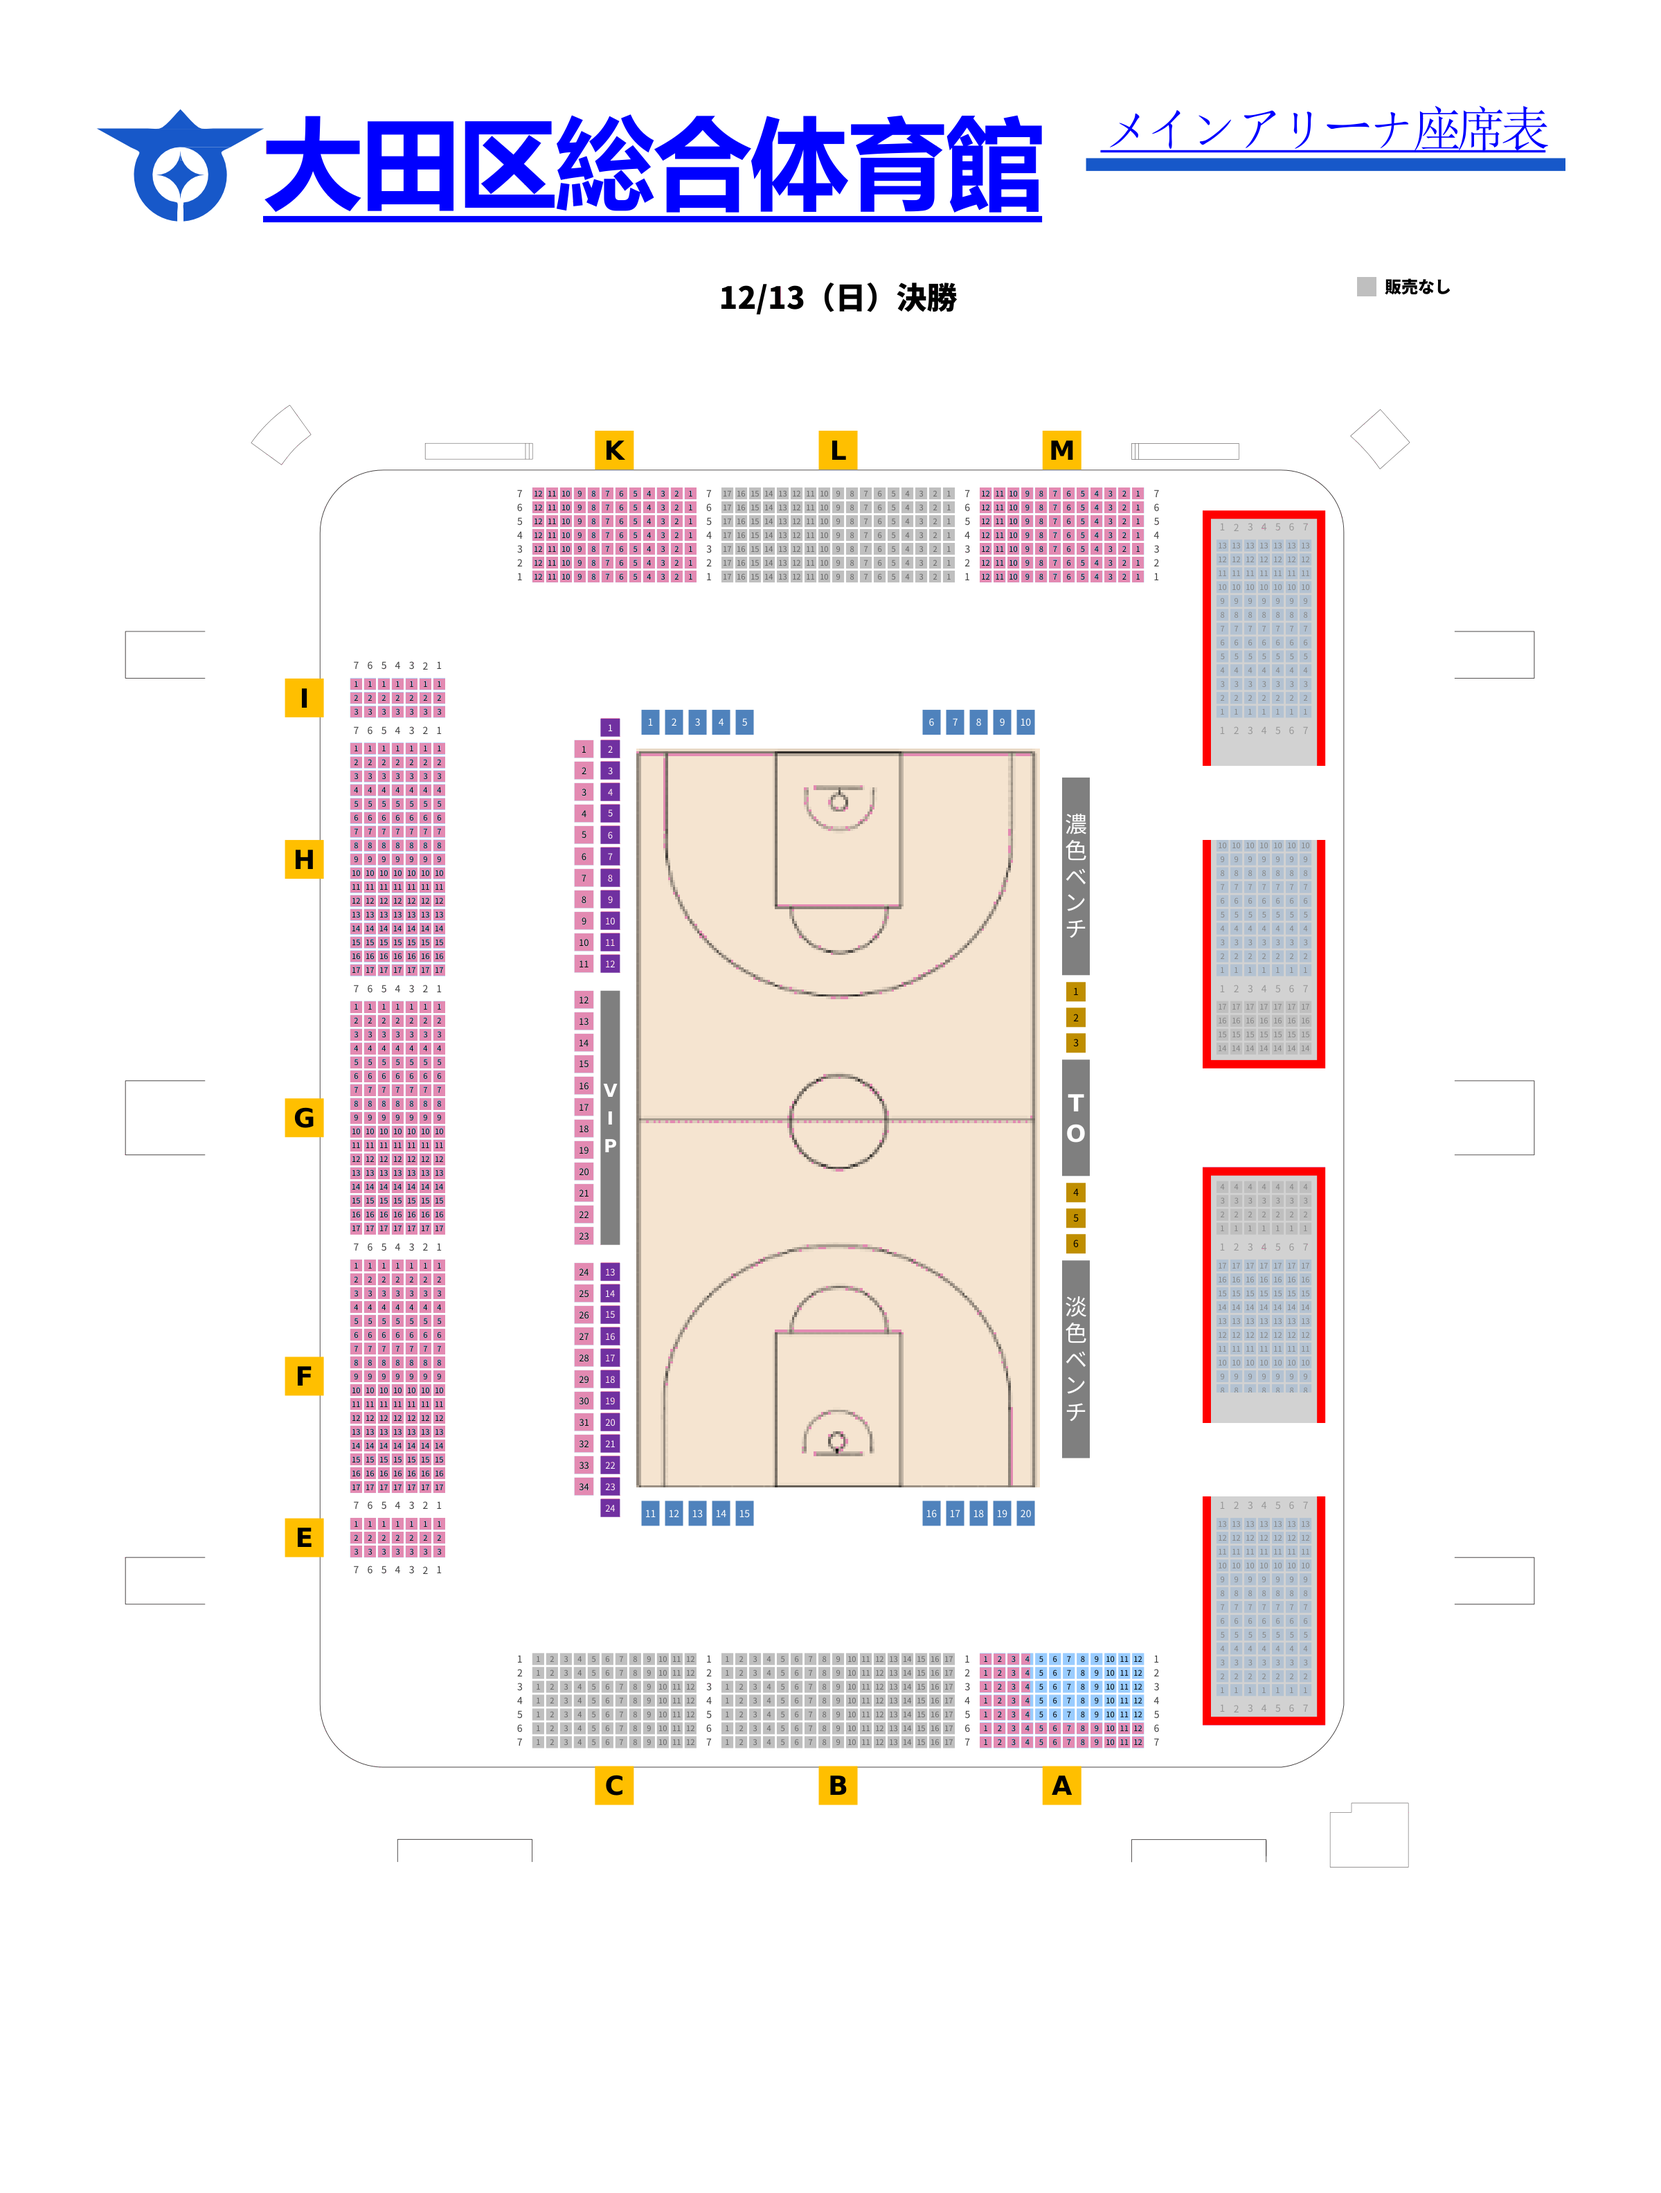
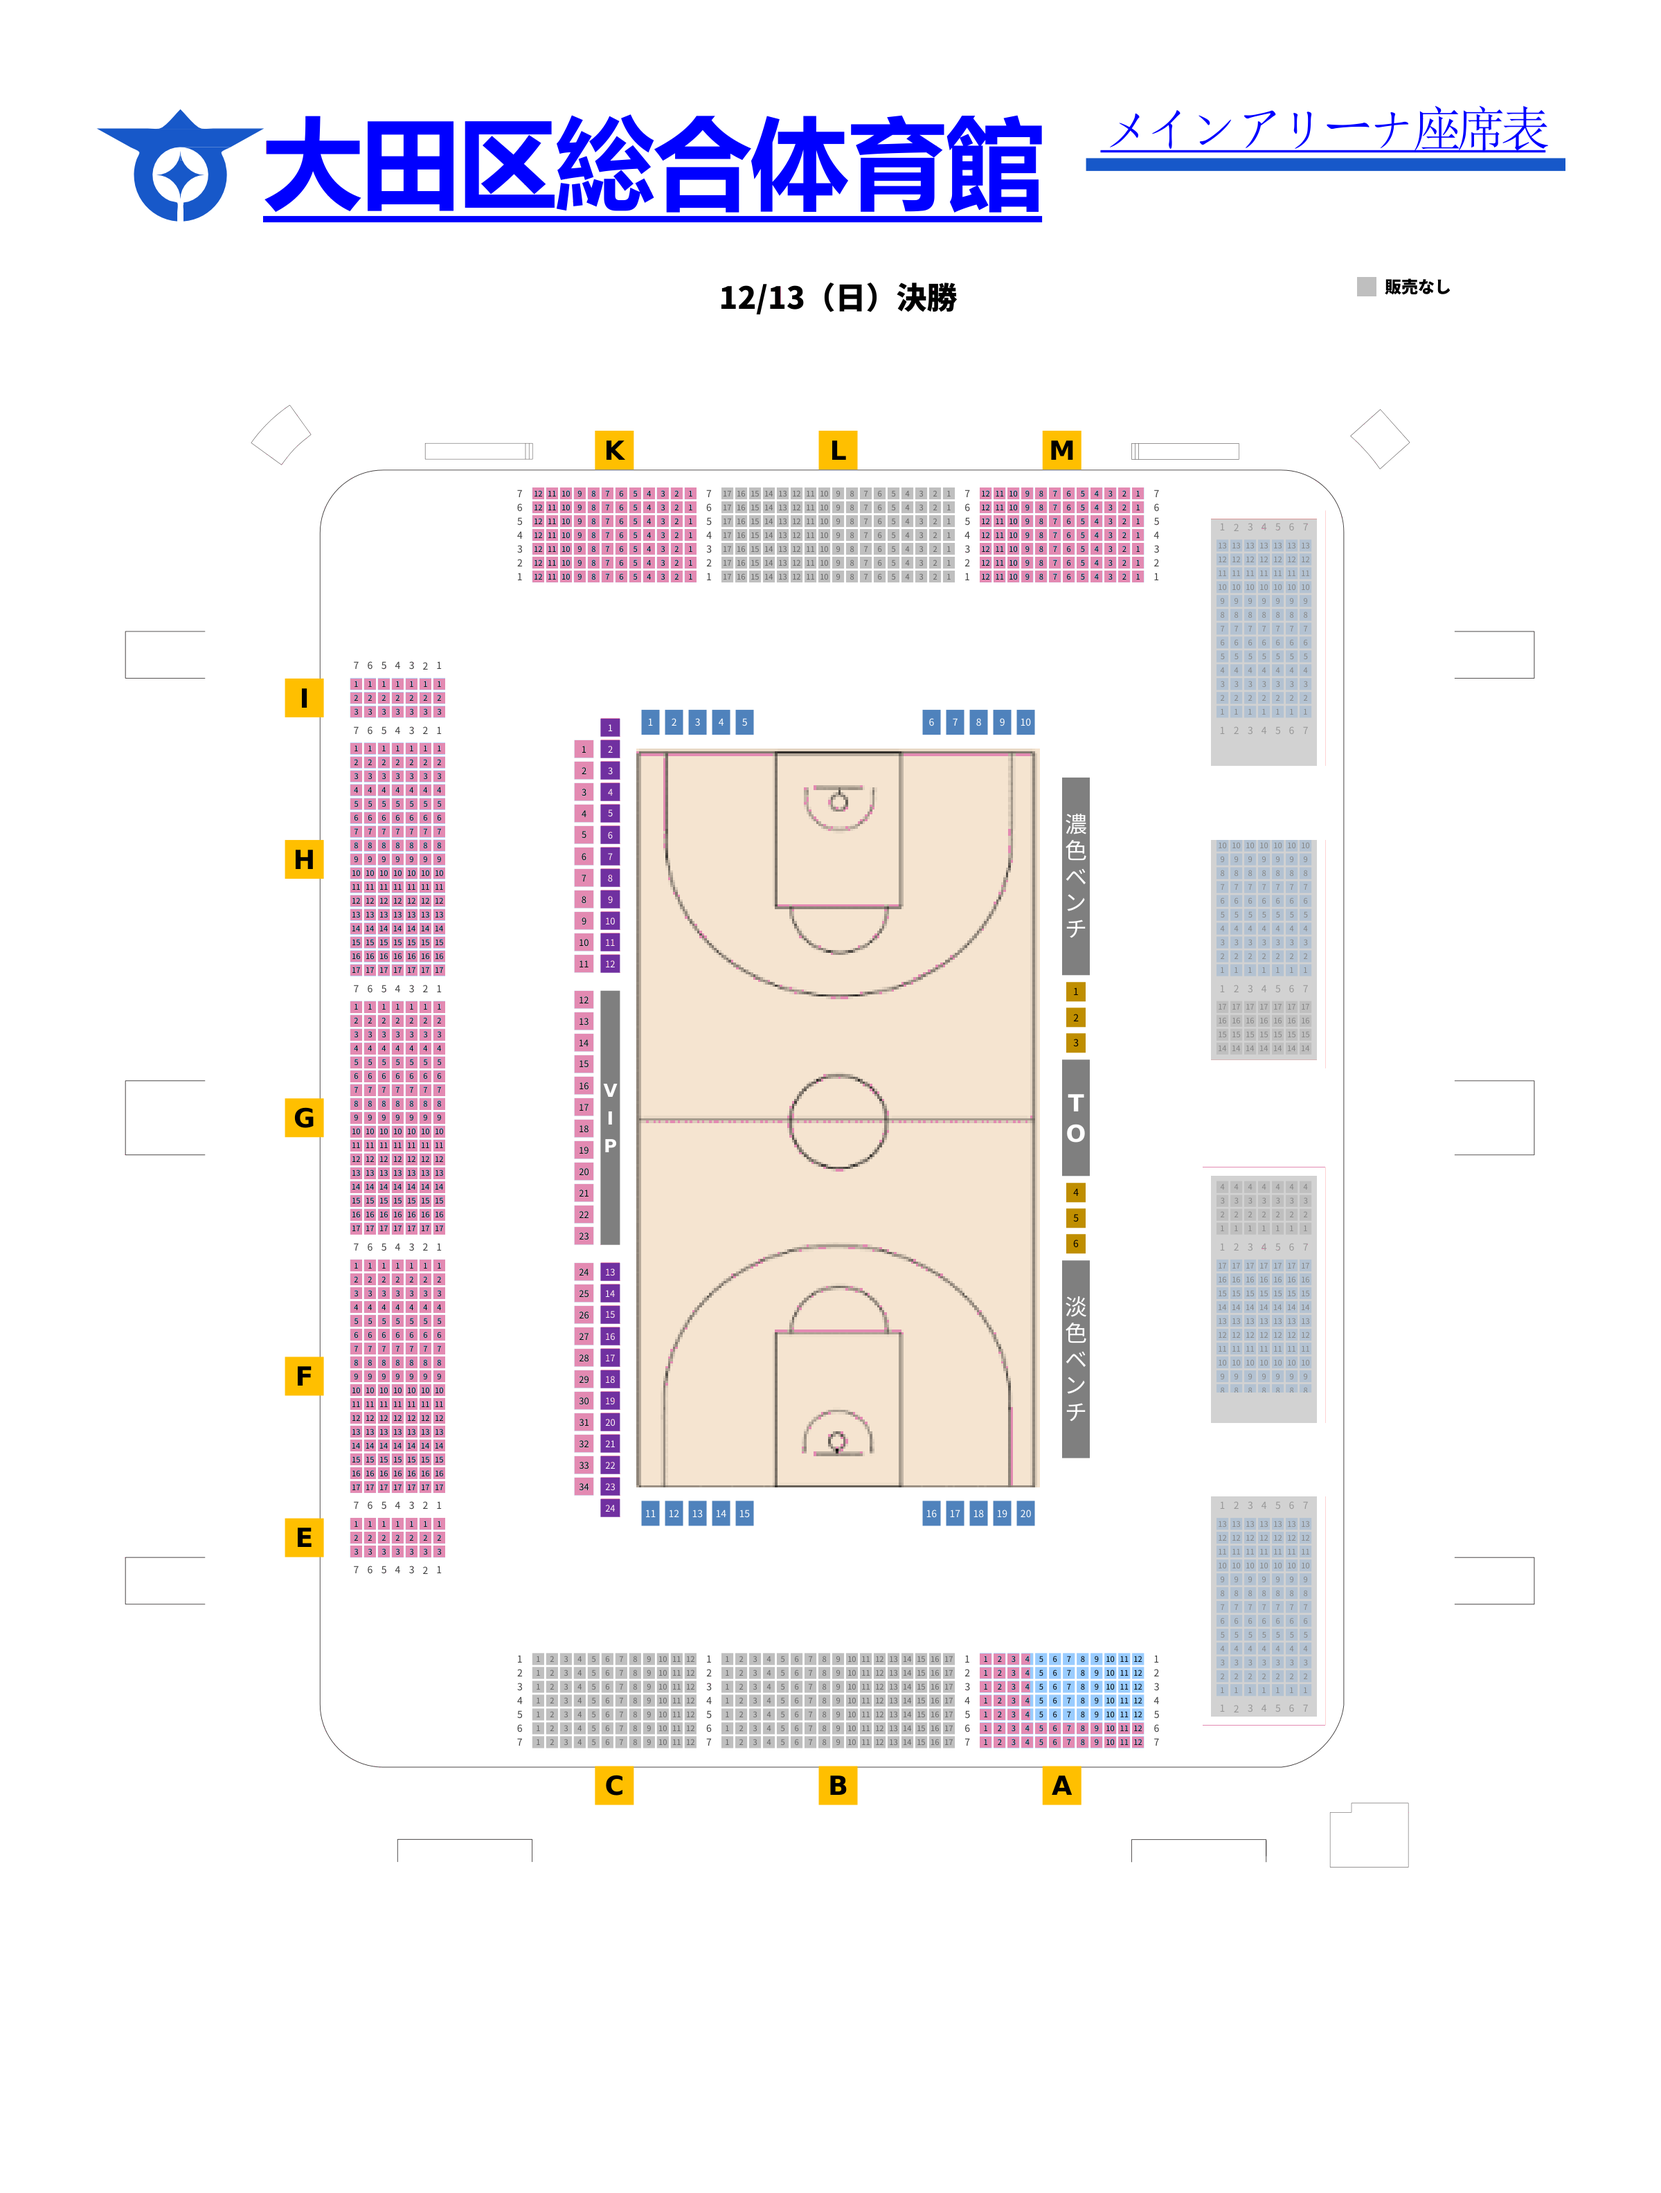
非販売エリアを席ブロック単位の点線枠で表示

diff --git a/src/components/SeatMap.tsx b/src/components/SeatMap.tsx
@@ -1,5 +1,13 @@
-import { useCallback, useEffect, useRef, useState } from 'react'
+import { useCallback, useEffect, useMemo, useRef, useState } from 'react'
 import { INCARE_LABELS } from '../lib/incarePalette'
+import {
+  mergeOptionsForOverlay,
+  mergeSeatRectsByZone,
+  NON_SELLABLE_ZONE_LABEL,
+  nonSellableZonesForEvent,
+  nonSellableZoneStyle,
+  seatsForNonSellableOverlay,
+} from '../lib/nonSellableRegions'
 import { isSeatSellable, isSold, seatOverlayClass } from '../lib/seatStatus'
 import type { SeatWithState, VenueEvent } from '../types'
 
@@ -135,6 +143,21 @@ export function SeatMap({
   const bgSrc =
     event.background_path ?? `/backgrounds/${event.slug}.png`
 
+  const nonSellableRegions = useMemo(() => {
+    const zones = nonSellableZonesForEvent(event.slug)
+    return zones.flatMap((zone) => {
+      const subset = seatsForNonSellableOverlay(event.slug, zone, seats)
+      const { gap, maxVerticalSep } = mergeOptionsForOverlay(event.slug, zone)
+      return mergeSeatRectsByZone(subset, zone, gap, maxVerticalSep)
+        .filter((rect) => rect.w > 0.01 && rect.h > 0.008)
+        .map((rect) => ({
+          zone,
+          rect,
+          label: NON_SELLABLE_ZONE_LABEL[zone] ?? '販売しません',
+        }))
+    })
+  }, [event.slug, seats])
+
   return (
     <div className="flex min-h-[50vh] flex-1 flex-col rounded-lg border border-slate-200 bg-white">
       <p className="border-b border-slate-200 px-3 py-1.5 text-xs text-slate-500">
@@ -174,6 +197,28 @@ export function SeatMap({
             )}
 
             <div className="pointer-events-none absolute inset-0">
+              {!moveLayoutMode &&
+                nonSellableRegions.map((region, idx) => {
+                  const style = nonSellableZoneStyle(region.zone)
+                  return (
+                    <div
+                      key={`ns-${region.zone}-${idx}`}
+                      className="absolute box-border border-2 border-dashed bg-transparent"
+                      style={{
+                        left: `${region.rect.x * 100}%`,
+                        top: `${region.rect.y * 100}%`,
+                        width: `${region.rect.w * 100}%`,
+                        height: `${region.rect.h * 100}%`,
+                        borderColor: style.borderColor,
+                      }}
+                    >
+                      <span className="absolute left-1/2 top-1 z-10 max-w-[96%] -translate-x-1/2 whitespace-nowrap rounded bg-white/95 px-1.5 py-0.5 text-center text-[10px] font-bold leading-none text-slate-800 shadow-sm">
+                        {region.label}
+                      </span>
+                    </div>
+                  )
+                })}
+
               {seats.map((seat) => {
                 const preview = movePreview?.[seat.id]
                 const sx = preview?.x ?? seat.x

diff --git a/src/lib/nonSellableRegions.ts b/src/lib/nonSellableRegions.ts
@@ -10,22 +10,11 @@ export const NON_SELLABLE_ZONE_LABEL: Partial<Record<SeatZone, string>> = {
 
 export function nonSellableZoneStyle(zone: SeatZone): {
   borderColor: string
-  background: string
-  stripe: string
 } {
   if (zone === 'team_ticket') {
-    return {
-      borderColor: INCARE.teamTicket,
-      background: `rgba(${INCARE.teamTicketRgb}, 0.22)`,
-      stripe: `repeating-linear-gradient(135deg, rgba(${INCARE.teamTicketRgb}, 0.18) 0 6px, transparent 6px 14px)`,
-    }
+    return { borderColor: INCARE.teamTicket }
   }
-  return {
-    borderColor: INCARE.floor2,
-    background: `rgba(${INCARE.floor2Rgb}, 0.35)`,
-    stripe:
-      'repeating-linear-gradient(135deg, rgba(127, 127, 127, 0.14) 0 6px, transparent 6px 14px)',
-  }
+  return { borderColor: INCARE.seatGray }
 }
 
 function otaTeamZone(cx: number, cy: number): boolean {

diff --git a/scripts/convert_pdfs.py b/scripts/convert_pdfs.py
@@ -86,6 +86,29 @@ def redact_map_labels(page: fitz.Page, path: Path, _slug: str, scale: float = 2.
     im.save(path)
 
 
+def strip_pdf_red_boxes(path: Path) -> None:
+    """PDF に描かれた赤い囲い線だけ白にする（席の色は残す）"""
+    try:
+        from PIL import Image
+    except ImportError:
+        return
+    im = Image.open(path).convert("RGB")
+    px = im.load()
+    w, h = im.size
+    changed = 0
+    for y in range(h):
+        for x in range(w):
+            if x / w < 0.68:
+                continue
+            r, g, b = px[x, y]
+            if r >= 170 and g <= 90 and b <= 90 and r - max(g, b) >= 80:
+                px[x, y] = (255, 255, 255)
+                changed += 1
+    if changed:
+        im.save(path)
+        print(f"  stripped {changed} red-box px on {path.name}")
+
+
 def recolor_floor1_to_pptx_pink(path: Path, slug: str) -> None:
     try:
         from PIL import Image
@@ -146,6 +169,8 @@ def main() -> None:
         pix.save(out)
         doc.close()
         recolor_floor1_to_pptx_pink(out, slug)
+        if slug in ("2025-12-12", "2025-12-13"):
+            strip_pdf_red_boxes(out)
         doc = fitz.open(pdf)
         redact_map_labels(doc[0], out, slug, scale=2.0)
         doc.close()
